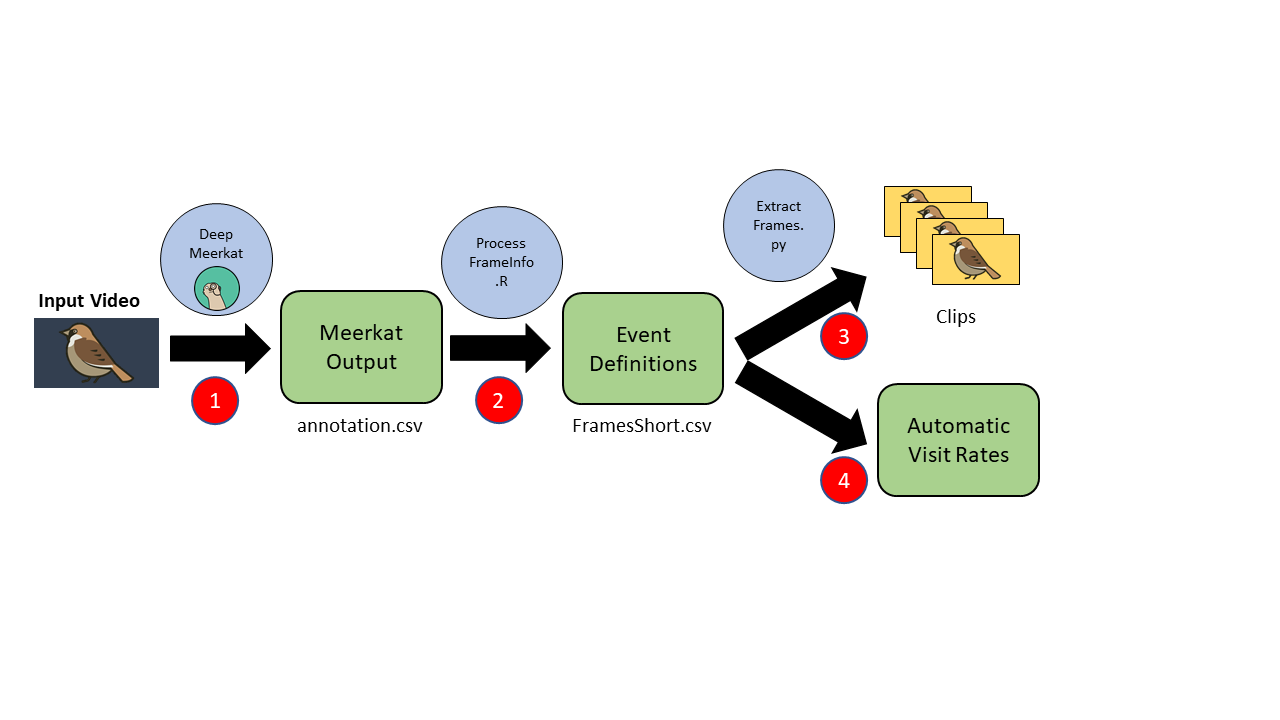
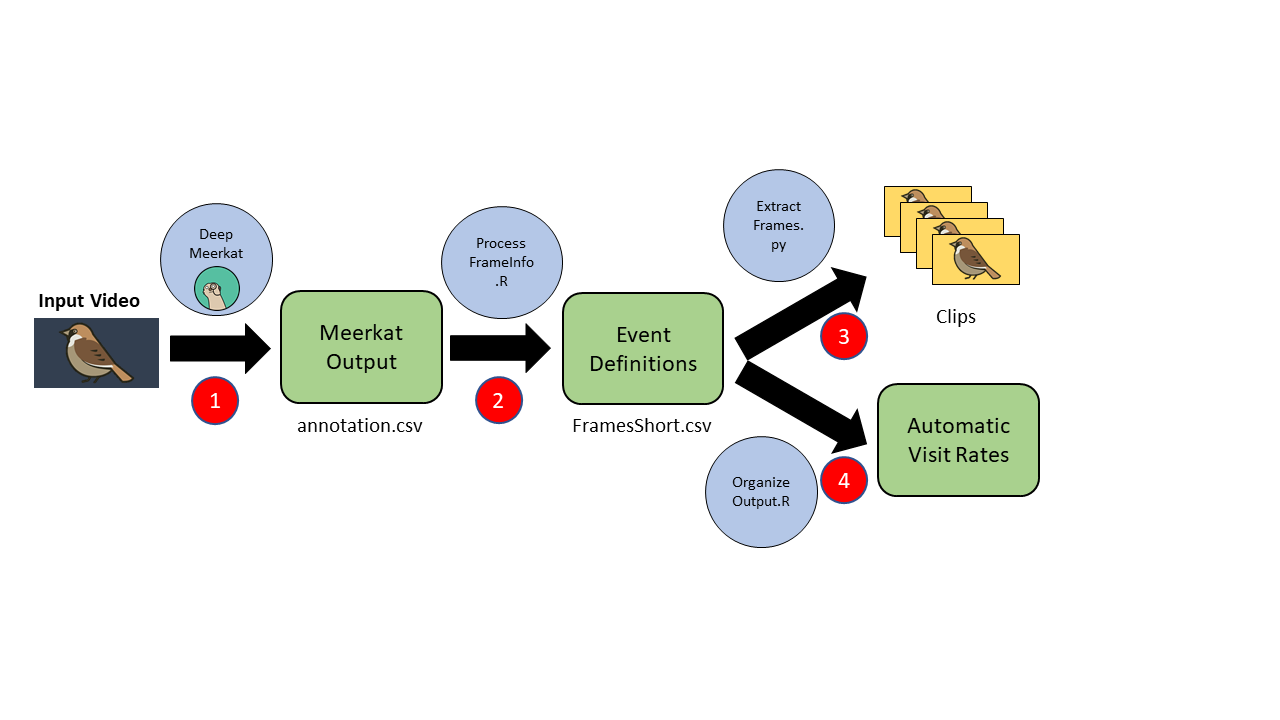
edited readmes

Changed region(s): [[0.5312, 0.6111, 0.6562, 0.7639]]

diff --git a/README.md b/README.md
@@ -64,7 +64,7 @@ Where [video] is the path to the input video. For example, to run the pipeline f
 bash SamplePipeline.sh ../MeerkatInput/VK0001.mp4
 ```
 
-If you have a bunch of videos, I also provided a script that runs every video in a loop. So you can run them overnight! To run that, just run:
+If you have a bunch of videos, I also provided a script that runs every video in a loop. So you can run them overnight! To run that, just do:
 
 ```
 bash SamplePipeline_Loop.sh
@@ -73,23 +73,23 @@ bash SamplePipeline_Loop.sh
 The script reads in all the files under **MeerkatInput/** and runs the pipline through it. Afterwards, the video will be moved to **RawVideos/** so you can keep track which videos were ran or not!
 
 ### Intepreting Output
-If everything ran smoothly, you should get a bunch of short clips named EventX.mp4, with a csv called Short.csv under a folder with the video's name. Short.csv stores all the event names and timesteps, which is useful when doing manual annotations for the clips!
+If everything ran smoothly, you should get a bunch of short clips named EventX.mp4, with a csv called FramesShort.csv under a folder with the video's name. FramesShort.csv stores all the event names and timesteps, which is useful when doing manual annotations for the clips.
 
 Once all videos are processed, you can run the following to get automatic visit rates:
 ```
 Rscript OrganizeOutput.R
 ```
 
-This will create a csv file called "AutoVisitRate.csv" which stores counts the visits detected for each video and the effective observation time (see Nakagawa et al., 2007)
+This will create a csv file called "AutoVisitRate.csv" which counts the visits detected for each video and the effective observation time (see Nakagawa et al., 2007)
 
 ## Common Errors
 - **"No such file or directory"**: Either you are not running the code under the Code/ directory, or the videos you inputted are not under MeerkatInput/. Solve this by checking where all the files are and make sure you `cd` to the Code/ directory before running anything
 
 - **"AttributeError: module 'tensorflow' has no attribute 'Session'"** or any **"module not found"** errors: You likely forgot to activate the virtual environment before running the code. Remember to run `conda activate SparrowVis`!
 
-- Empty short.csv and no clips in output folders. This is likely not an error, try double check annotations.csv (output from deepmeerkat). Likely no motion was detected throughout the video!
+- Empty FramesShort.csv and no clips in output folders. This is likely not an error, try double check annotations.csv (output from deepmeerkat). Likely no motion was detected throughout the video!
 
-- If you are struggling or have lots of error, feel free to contact me! My affiliations are below.
+- If you are struggling or have lots of error, feel free to contact me! My contact info can be found below.
 
 ## References
 - Nakagawa, S., Gillespie, D.O.S., Hatchwell, B.J., Burke, T., 2007. Predictable males and
@@ -104,7 +104,7 @@ detection. Methods Ecol. Evol. 9, 1435–1441.
 Alex Chan Hoi Hang  
 the.alex.chan2@gmail.com/ 
 hhc4317@ic.ac.uk  
-MRes Computational Methods in Ecology and Evolution  
+MRes Computational Methods in Ecology and Evolution 2021
 Department of Life Sciences  
 Imperial College Silwood Park  
 UK. SL5 7PY  

diff --git a/Code/README.md b/Code/README.md
@@ -31,10 +31,10 @@ Next, the R script [ProcessFrameInfo.R](./ProcessFrameInfo.R) reads the **annota
 ```
 Rscript ProcessFrameInfo.R [VidName]
 ```
-Where **[VidName]** is the name of the video without the .mp4 extension. The script will output a new dataframe called **Short.csv** within each of the output folders.
+Where **[VidName]** is the name of the video without the .mp4 extension. The script will output a new dataframe called **FramesShort.csv** within each of the output folders.
 
 ### 3. Extracting Clips
-Next, the python script [ExtractFrames.py](./ExtractFrames.py) takes the events and timestamps from **Short.csv** from before, and writes seperate 7 second video files for each event. To run the script, run:
+Next, the python script [ExtractFrames.py](./ExtractFrames.py) takes the events and timestamps from **FramesShort.csv** from before, and writes seperate 7 second video files for each event. To run the script, run:
 
 ```
 python ExtractFrames.py [VidName]
@@ -47,7 +47,7 @@ Lastly, once all events are defined, the script [OrganizeOutput.R](./OrganizeOut
 ```
 Rscript OrganizeOutput.R
 ```
-This will create a csv file called "AutoVisitRate.csv" which stores counts the visits detected for each video and the effective observation time (see Nakagawa et al., 2007)
+This will create a csv file called **AutoVisitRate.csv** which counts the visits detected for each video and the effective observation time (see Nakagawa et al., 2007)
 
 ## Running on the HPC cluster
 If you are more experienced with computational techniques and have access to the higher performance computing cluster in Imperial (or similar), I provided additional scripts that I used to run the pipeline on it. This would save more time because you can basically run the pipeline in parallel for multiple videos.
@@ -75,7 +75,7 @@ detection. Methods Ecol. Evol. 9, 1435–1441.
 Alex Chan Hoi Hang  
 the.alex.chan2@gmail.com/ 
 hhc4317@ic.ac.uk  
-MRes Computational Methods in Ecology and Evolution  
+MRes Computational Methods in Ecology and Evolution 2021
 Department of Life Sciences  
 Imperial College Silwood Park  
 UK. SL5 7PY  
